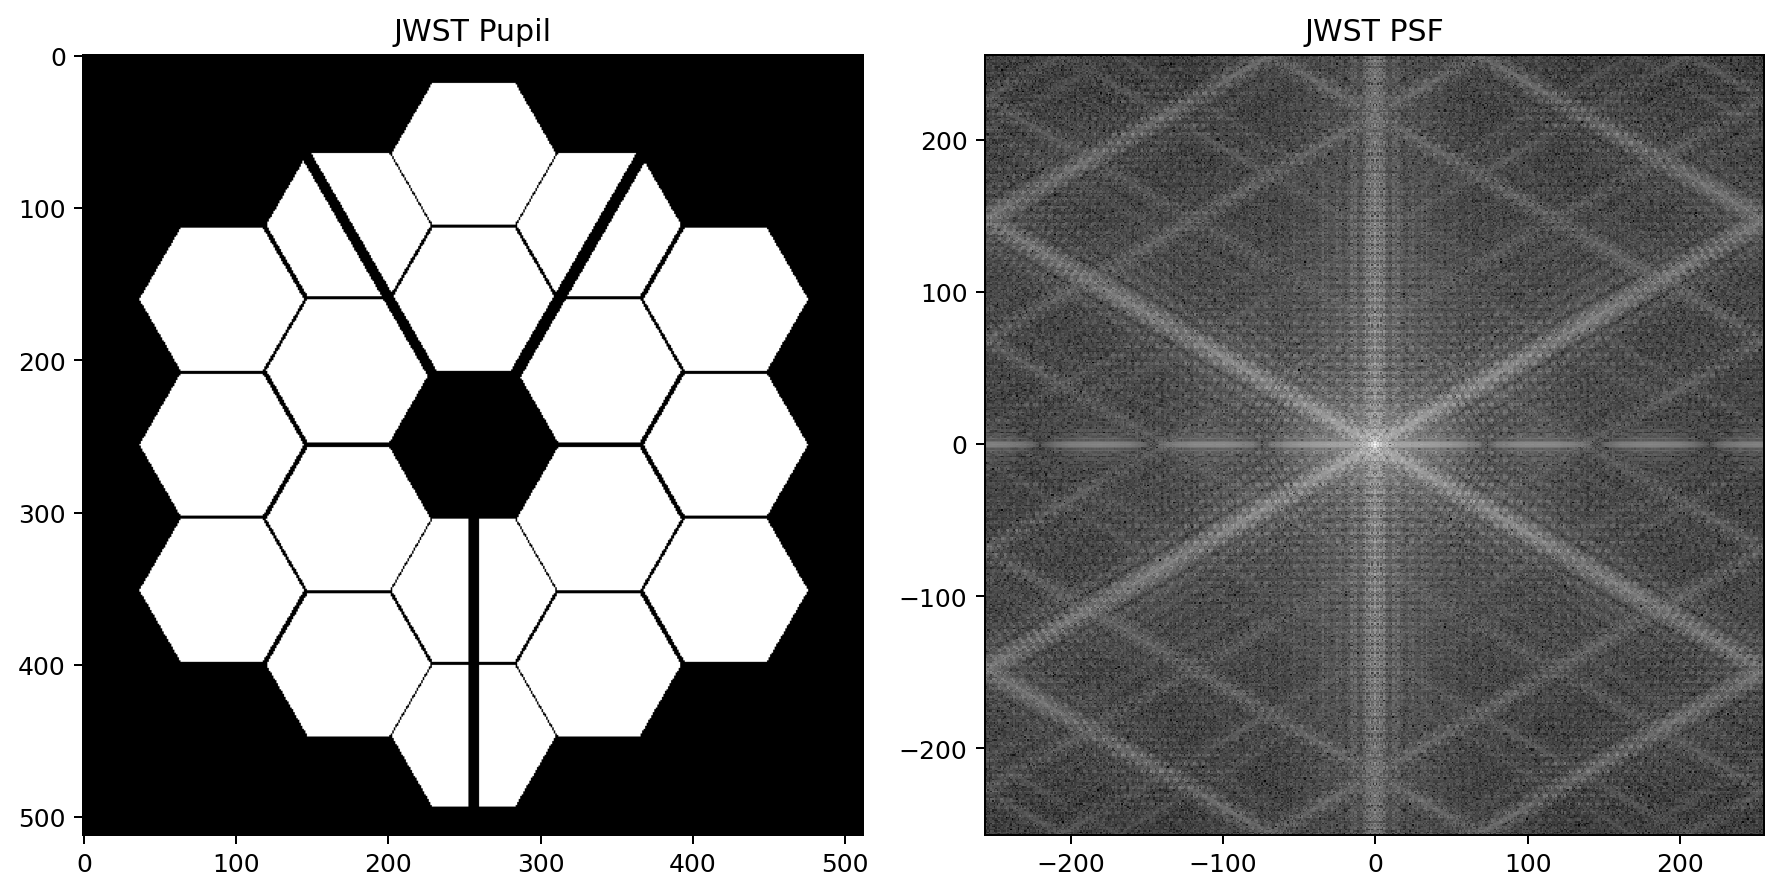
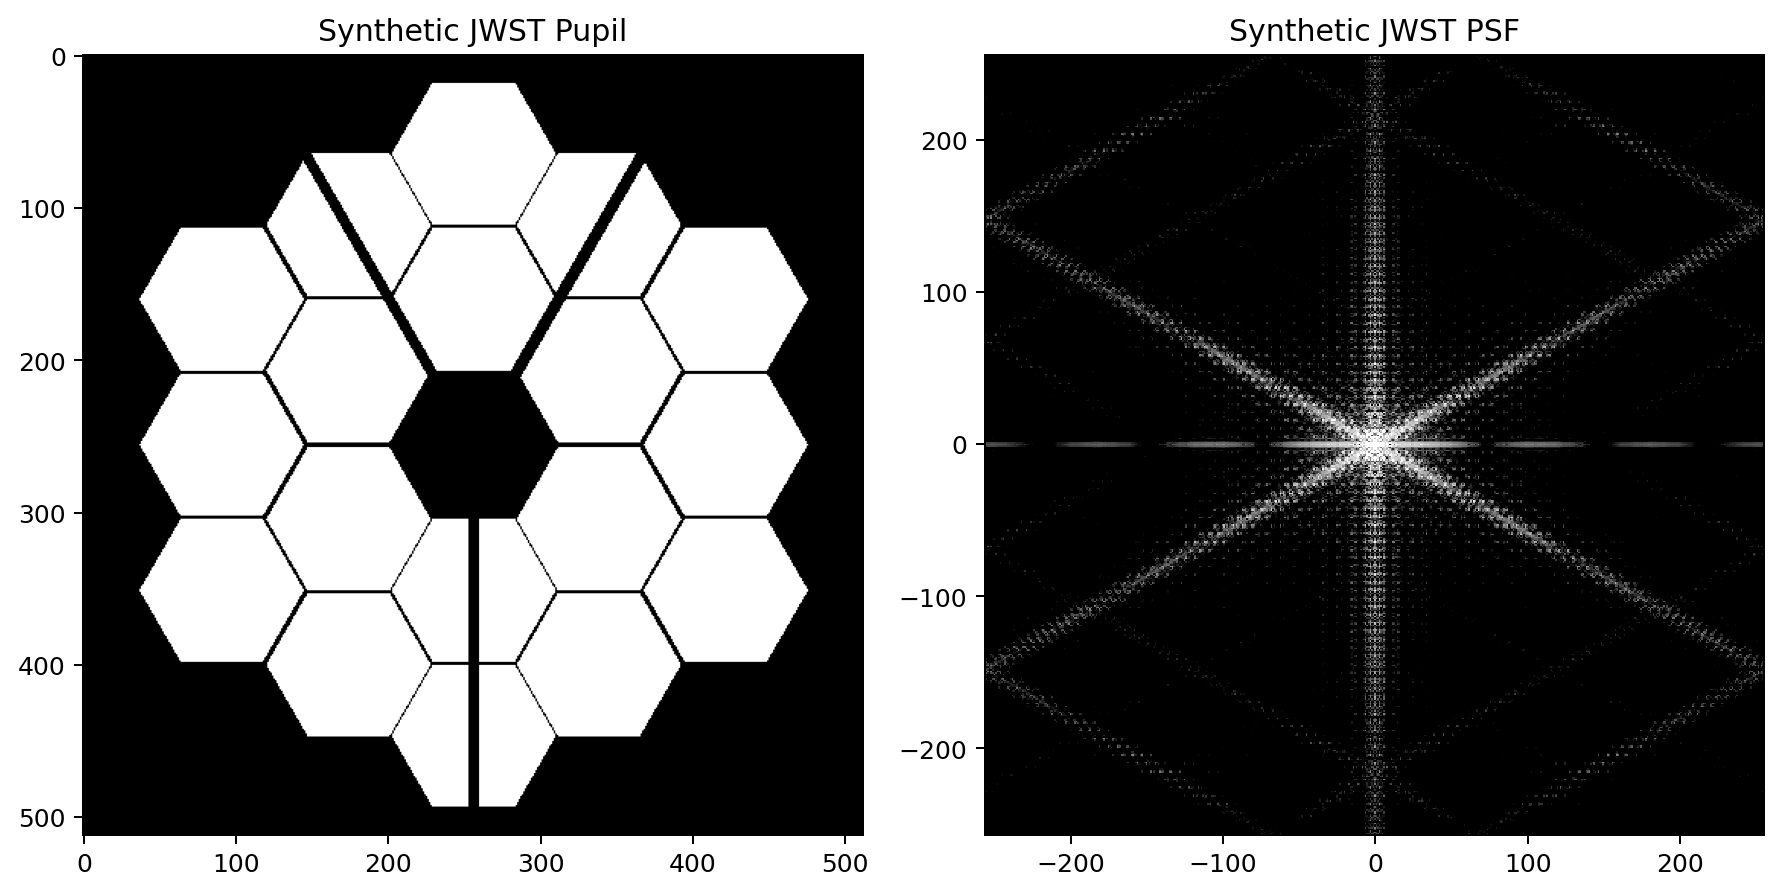
Improve PSF visualization contrast and harmonize figure styling

diff --git a/PSF_JWST.py b/PSF_JWST.py
@@ -35,6 +35,24 @@ def parse_args() -> argparse.Namespace:
         default=ROOT / "figures" / "jwst_pupil_psf.png",
         help="Output path for the generated figure.",
     )
+    parser.add_argument(
+        "--psf-floor-power",
+        type=float,
+        default=-8.0,
+        help="Lower display floor in log10 for PSF visualization.",
+    )
+    parser.add_argument(
+        "--psf-upper-percentile",
+        type=float,
+        default=99.9,
+        help="Upper percentile used to set PSF display vmax.",
+    )
+    parser.add_argument(
+        "--psf-dynamic-range",
+        type=float,
+        default=3.0,
+        help="Displayed PSF dynamic range in dex below vmax.",
+    )
     parser.add_argument("--no-show", action="store_true", help="Do not open a display window.")
     return parser.parse_args()
 
@@ -57,9 +75,12 @@ def main() -> None:
         pupil=pupil_jwst,
         psf=psf_jwst,
         coords=x,
-        pupil_title="JWST Pupil",
-        psf_title="JWST PSF",
+        pupil_title="Synthetic JWST Pupil",
+        psf_title="Synthetic JWST PSF",
         psf_cmap="gray",
+        psf_floor_power=args.psf_floor_power,
+        psf_upper_percentile=args.psf_upper_percentile,
+        psf_dynamic_range=args.psf_dynamic_range,
         output_path=args.figure_path,
         show=not args.no_show,
     )

diff --git a/view_PSF.py b/view_PSF.py
@@ -37,6 +37,24 @@ def parse_args() -> argparse.Namespace:
         default=ROOT / "figures" / "jwst_pupil_psf.png",
         help="Output path for the generated figure.",
     )
+    parser.add_argument(
+        "--psf-floor-power",
+        type=float,
+        default=-8.0,
+        help="Lower display floor in log10 for PSF visualization.",
+    )
+    parser.add_argument(
+        "--psf-upper-percentile",
+        type=float,
+        default=99.9,
+        help="Upper percentile used to set PSF display vmax.",
+    )
+    parser.add_argument(
+        "--psf-dynamic-range",
+        type=float,
+        default=3.0,
+        help="Displayed PSF dynamic range in dex below vmax.",
+    )
     parser.add_argument("--no-show", action="store_true", help="Do not open a display window.")
     return parser.parse_args()
 
@@ -73,9 +91,12 @@ def main() -> None:
         pupil=pupil_jwst,
         psf=psf_jwst,
         coords=x,
-        pupil_title="JWST Pupil",
-        psf_title="JWST PSF",
+        pupil_title="Synthetic JWST Pupil",
+        psf_title="Synthetic JWST PSF",
         psf_cmap="gray",
+        psf_floor_power=args.psf_floor_power,
+        psf_upper_percentile=args.psf_upper_percentile,
+        psf_dynamic_range=args.psf_dynamic_range,
         output_path=args.figure_path,
         show=not args.no_show,
     )

diff --git a/others_PSF.py b/others_PSF.py
@@ -49,6 +49,24 @@ def parse_args() -> argparse.Namespace:
         default=ROOT / "figures" / "other_pupil_psf.png",
         help="Output path for the generated figure.",
     )
+    parser.add_argument(
+        "--psf-floor-power",
+        type=float,
+        default=-8.0,
+        help="Lower display floor in log10 for PSF visualization.",
+    )
+    parser.add_argument(
+        "--psf-upper-percentile",
+        type=float,
+        default=99.9,
+        help="Upper percentile used to set PSF display vmax.",
+    )
+    parser.add_argument(
+        "--psf-dynamic-range",
+        type=float,
+        default=3.0,
+        help="Displayed PSF dynamic range in dex below vmax.",
+    )
     parser.add_argument("--no-show", action="store_true", help="Do not open a display window.")
     return parser.parse_args()
 
@@ -94,7 +112,10 @@ def main() -> None:
         coords=x,
         pupil_title=pupil_title,
         psf_title=psf_title,
-        psf_cmap="turbo",
+        psf_cmap="gray",
+        psf_floor_power=args.psf_floor_power,
+        psf_upper_percentile=args.psf_upper_percentile,
+        psf_dynamic_range=args.psf_dynamic_range,
         output_path=args.figure_path,
         show=not args.no_show,
     )

diff --git a/scripts/render_jwst_figure.py b/scripts/render_jwst_figure.py
@@ -29,6 +29,21 @@ def parse_args() -> argparse.Namespace:
         type=Path,
         default=ROOT / "figures" / "jwst_pupil_psf.png",
     )
+    parser.add_argument(
+        "--psf-floor-power",
+        type=float,
+        default=-8.0,
+    )
+    parser.add_argument(
+        "--psf-upper-percentile",
+        type=float,
+        default=99.9,
+    )
+    parser.add_argument(
+        "--psf-dynamic-range",
+        type=float,
+        default=3.0,
+    )
     parser.add_argument("--no-show", action="store_true")
     return parser.parse_args()
 
@@ -50,9 +65,12 @@ def main() -> None:
         pupil=pupil,
         psf=psf,
         coords=x,
-        pupil_title="JWST Pupil",
-        psf_title="JWST PSF",
+        pupil_title="Synthetic JWST Pupil",
+        psf_title="Synthetic JWST PSF",
         psf_cmap="gray",
+        psf_floor_power=args.psf_floor_power,
+        psf_upper_percentile=args.psf_upper_percentile,
+        psf_dynamic_range=args.psf_dynamic_range,
         output_path=args.figure_path,
         show=not args.no_show,
     )

diff --git a/src/psf_modeling/plotting.py b/src/psf_modeling/plotting.py
@@ -17,6 +17,9 @@ def plot_pupil_and_psf(
     pupil_title: str = "Pupil",
     psf_title: str = "PSF",
     psf_cmap: str = "gray",
+    psf_floor_power: float = -8.0,
+    psf_upper_percentile: float = 99.9,
+    psf_dynamic_range: float = 3.0,
     figure_title: str | None = None,
     output_path: str | Path | None = None,
     show: bool = True,
@@ -32,7 +35,19 @@ def plot_pupil_and_psf(
     axs[0].set_title(pupil_title)
     axs[0].set_aspect("equal", "box")
 
-    axs[1].pcolormesh(coords, coords, log10_psf(psf), cmap=psf_cmap, shading="auto")
+    log_psf = log10_psf(psf, floor_power=psf_floor_power)
+    vmax = float(np.percentile(log_psf, psf_upper_percentile))
+    vmin = max(vmax - psf_dynamic_range, psf_floor_power)
+
+    axs[1].pcolormesh(
+        coords,
+        coords,
+        log_psf,
+        cmap=psf_cmap,
+        shading="auto",
+        vmin=vmin,
+        vmax=vmax,
+    )
     axs[1].set_title(psf_title)
     axs[1].set_aspect("equal", "box")
 
